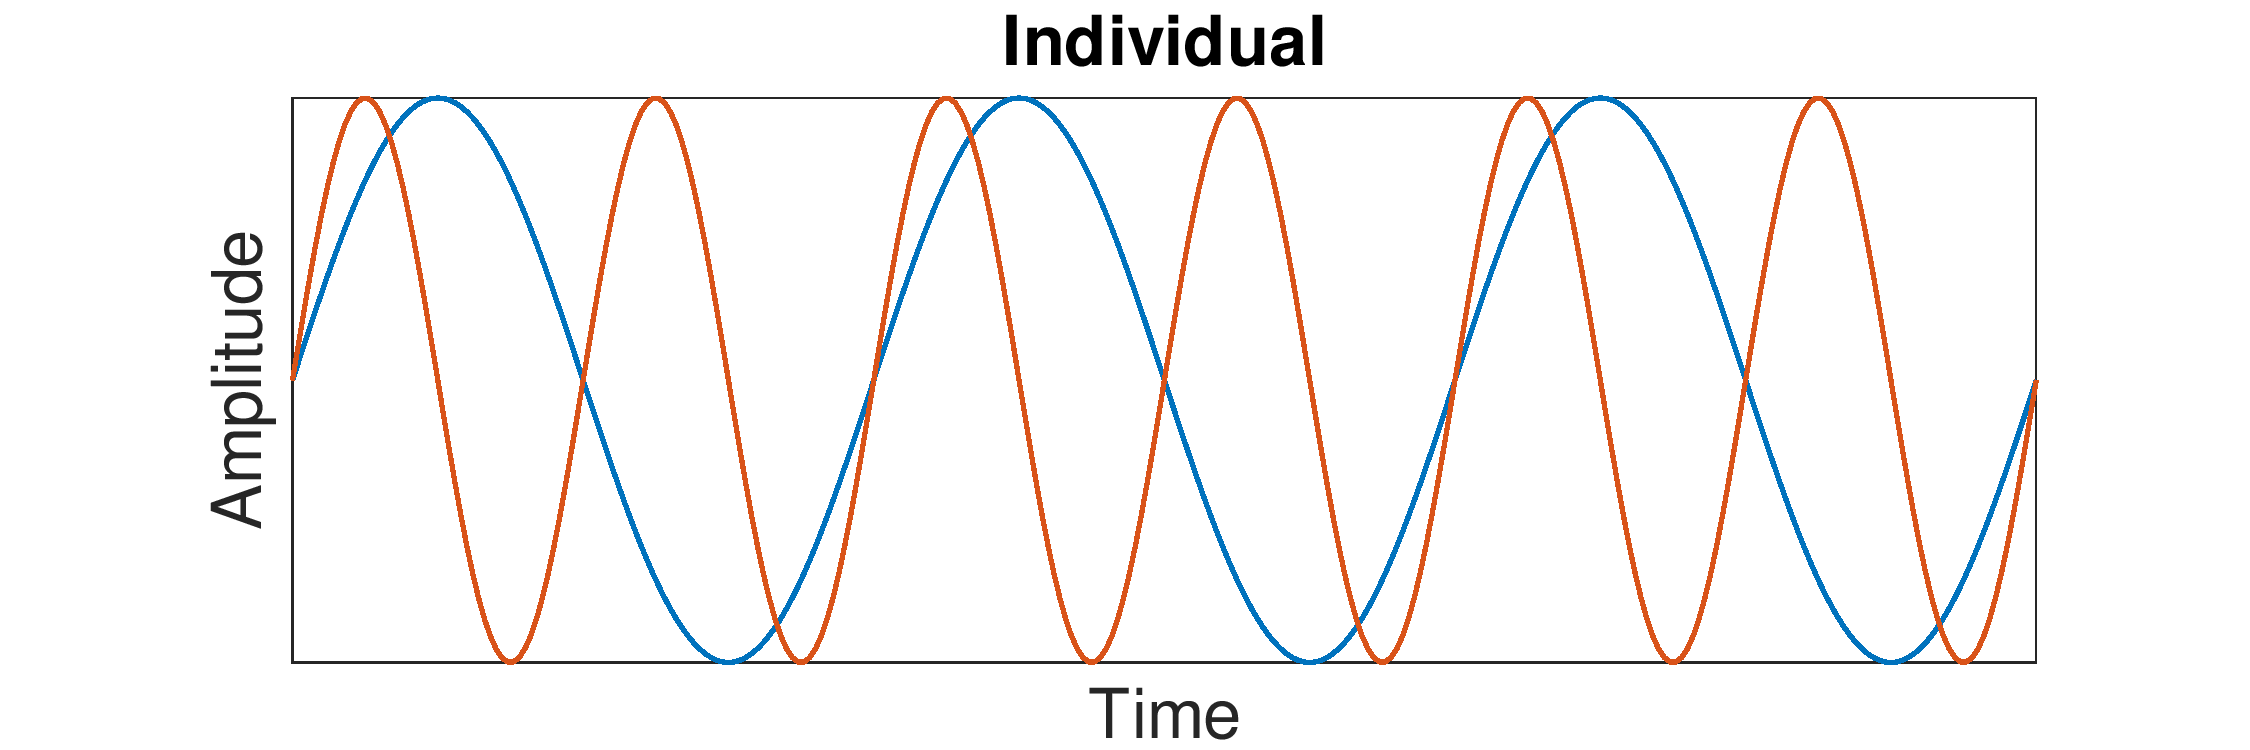
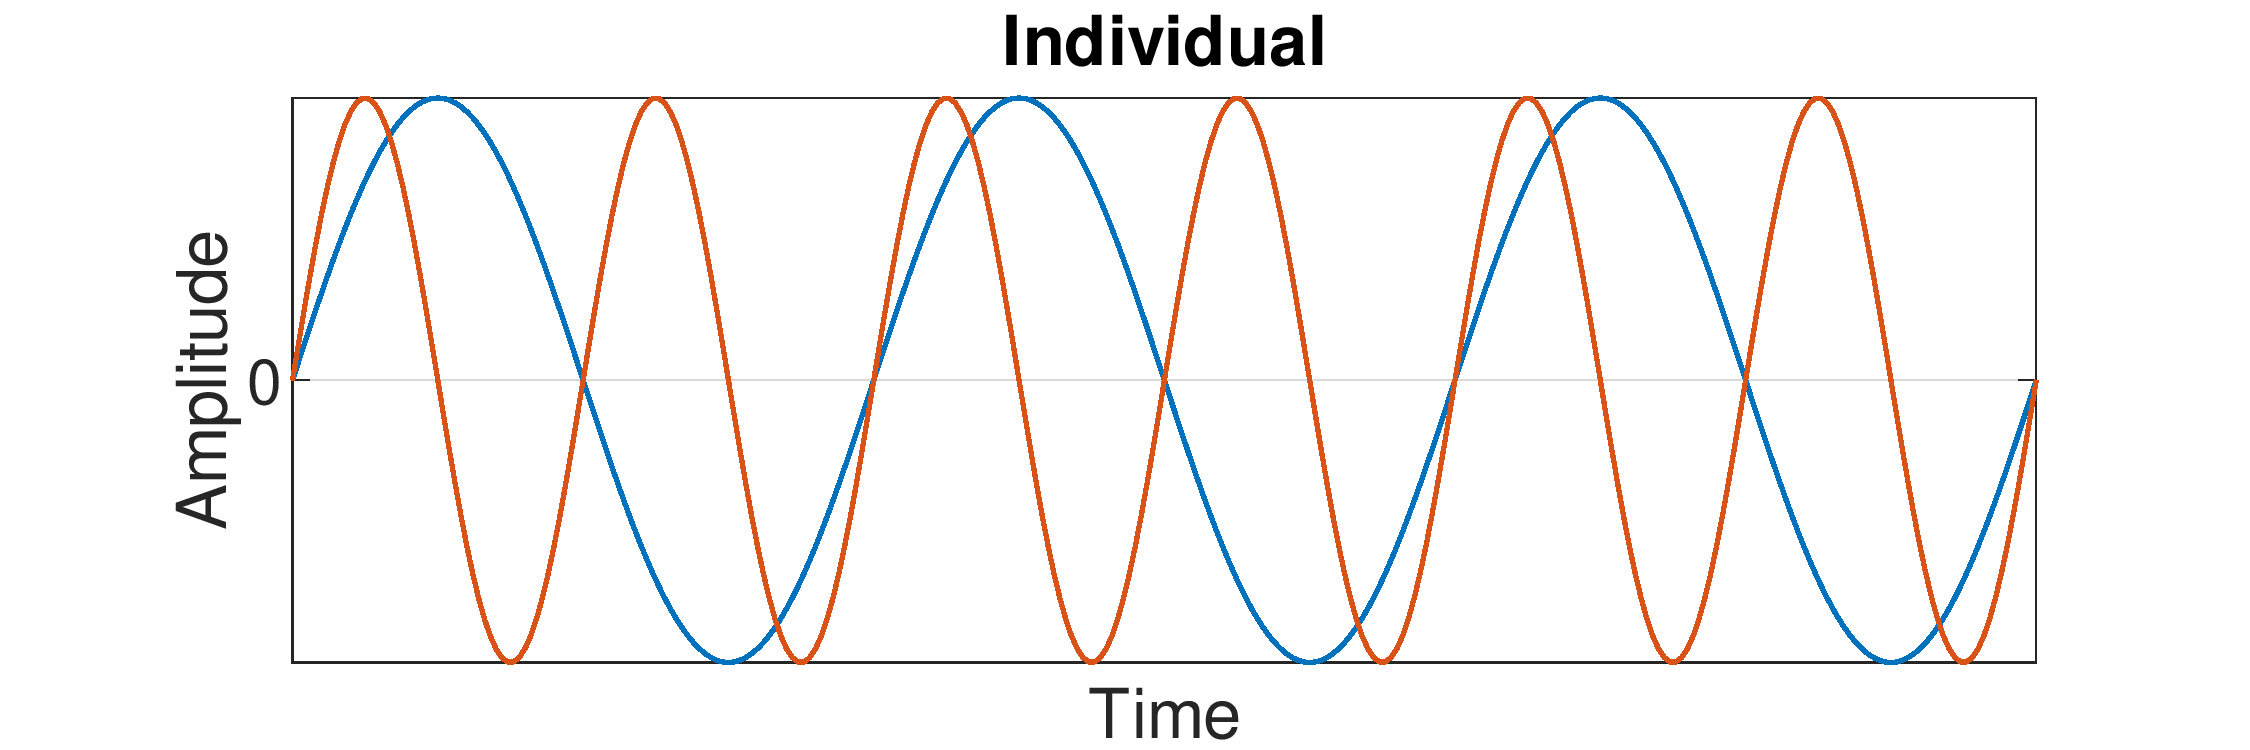
Added grid line in harmony demo

Changed region(s): [[0.0622, 0.3067, 0.1244, 0.7053]]

diff --git a/Chapters/Literature-Review.tex b/Chapters/Literature-Review.tex
@@ -64,12 +64,12 @@ harmonious.
 {\bf Octave Interval}
 \begin{tabular}{c c c}
 	\includegraphics[align=c, width=0.4\textwidth,
-		trim={3.5cm 0 3.5cm 0},clip]
+		trim={3cm 0 3.5cm 0},clip]
 		{HarmonyOctaveSeparate}
 
 	& \huge$\rightarrow$ &
 	\includegraphics[align=c, width=0.4\textwidth,
-		trim={3.5cm 0 3.5cm 0},clip]
+		trim={3cm 0 3.5cm 0},clip]
 		{HarmonyOctaveSuper}\\
 \end{tabular}
 
@@ -78,11 +78,11 @@ harmonious.
 {\bf Fifth Interval}
 \begin{tabular}{c c c}
 	\includegraphics[align=c, width=0.4\textwidth,
-		trim={3.5cm 0 3.5cm 0},clip]
+		trim={3cm 0 3.5cm 0},clip]
 		{HarmonyFifthSeparate}
 	& \huge$\rightarrow$ &
 	\includegraphics[align=c, width=0.4\textwidth,
-		trim={3.5cm 0 3.5cm 0},clip]
+		trim={3cm 0 3.5cm 0},clip]
 		{HarmonyFifthSuper}\\
 \end{tabular}
 \caption{Harmonic interference of two intervals}
